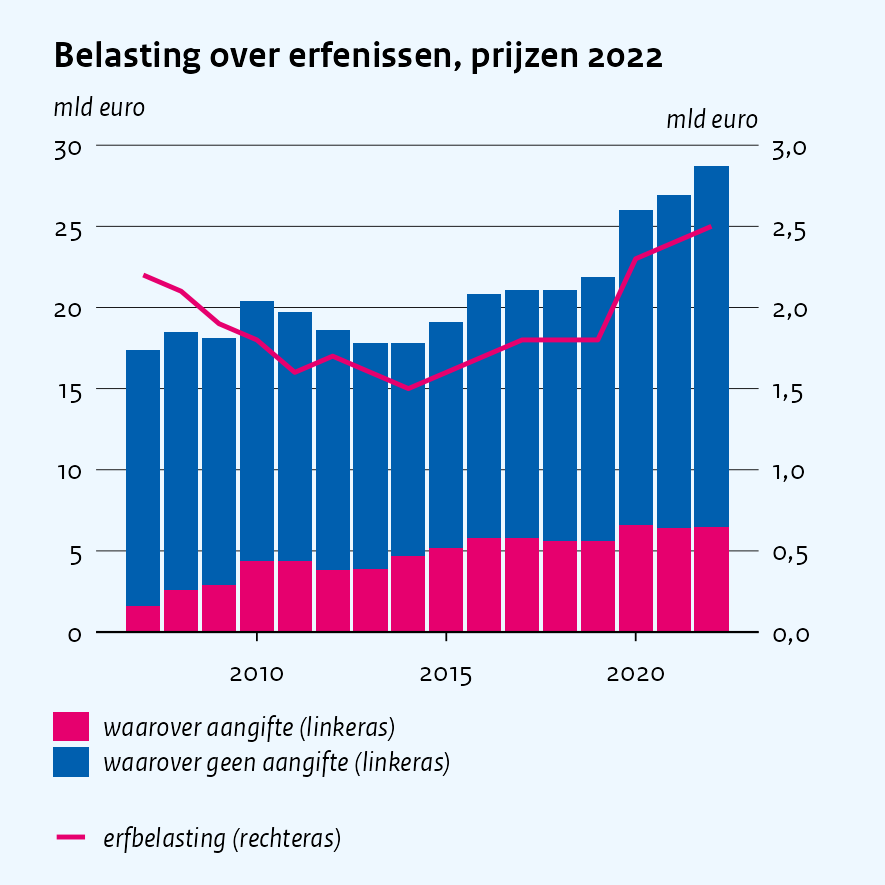
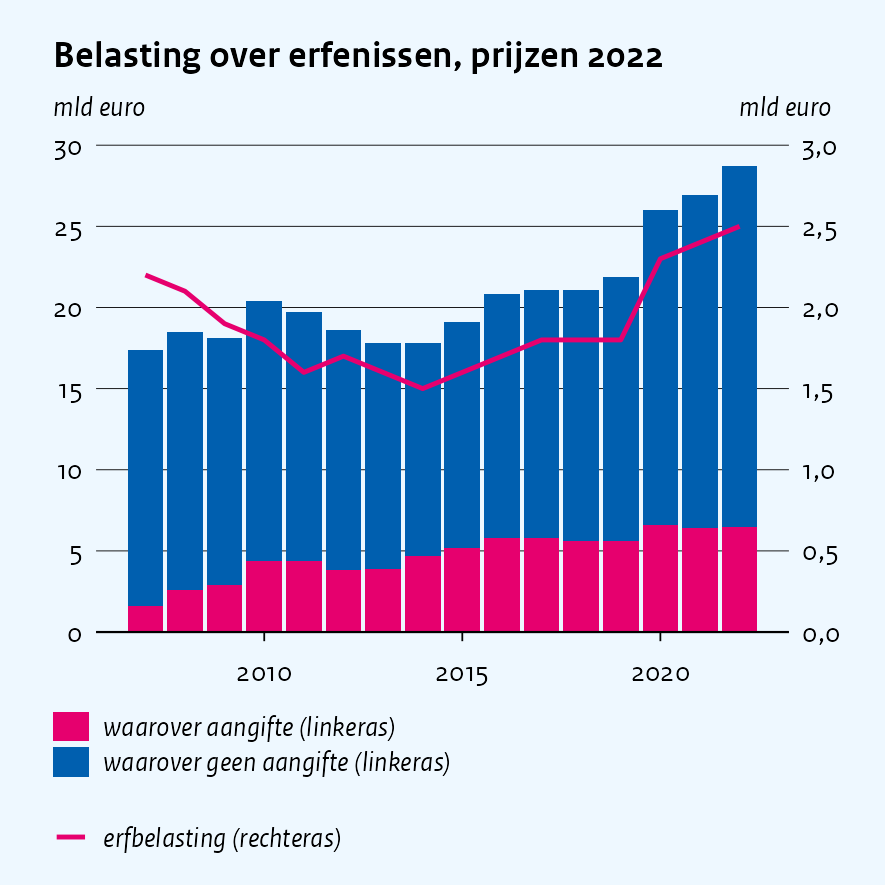
docs: re-render vignettes

diff --git a/doc/annotation.md b/doc/annotation.md
@@ -89,8 +89,6 @@ cpb_line(groeipad_sec, x = jaar, y = groei, ymin = lo, ymax = hi,
                      guide = guide_axis(minor.ticks = TRUE))
 #> Scale for x is already present.
 #> Adding another scale for x, which will replace the existing scale.
-#> Warning: ggcpb: this plot has a secondary-axis caption (sec_ylab), which only render(s) exactly when written out through save_cpb() -- a bare print() (this one included) shows an approximate placement instead.
-#> This warning is displayed once per session.
 ```
 
 <img src="annotation_files/figure-gfm/style-english-1.png" alt="" width="350px" />
